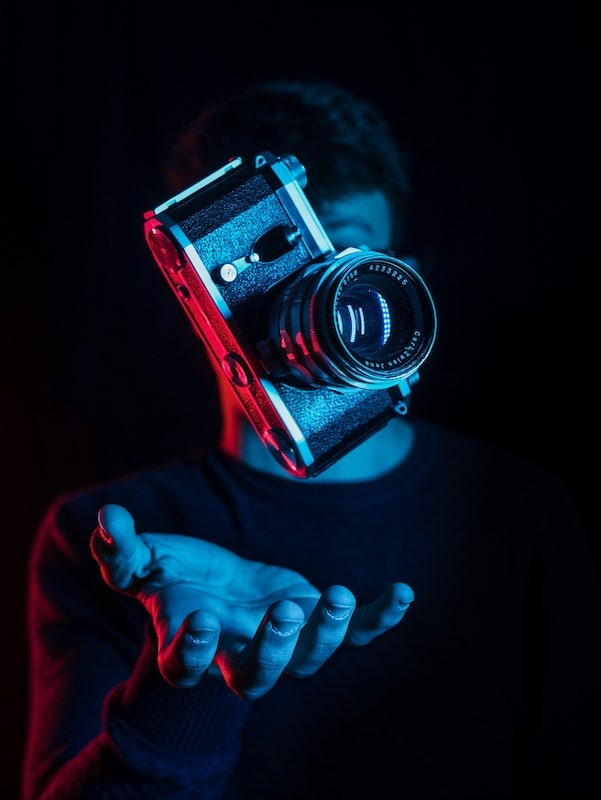
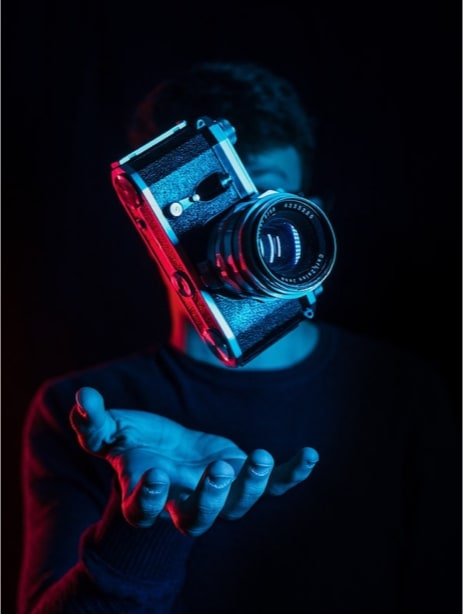
site: optimize images

diff --git a/packages/site/pages/responsive-demo.tsx b/packages/site/pages/responsive-demo.tsx
@@ -13,9 +13,9 @@ import {
   YStack,
 } from 'tamagui'
 
-import img1 from '../public/photo1.webp'
-import img2 from '../public/photo2.webp'
-import img3 from '../public/photo3.webp'
+import img1 from '../public/photo1.jpg'
+import img2 from '../public/photo2.jpg'
+import img3 from '../public/photo3.jpg'
 
 export default function ResponsiveDemo() {
   const header = (

diff --git a/packages/site/components/TitleAndMetaTags.tsx b/packages/site/components/TitleAndMetaTags.tsx
@@ -21,7 +21,7 @@ export function TitleAndMetaTags({
 }: TitleAndMetaTagsProps) {
   const router = useRouter()
 
-  const image = props.image ?? (poster ? `${url}/${poster}` : `${url}/social.jpg`)
+  const image = props.image ?? (poster ? `${url}/${poster}` : `${url}/social.webp`)
   const path = pathname || router.pathname
 
   return (
